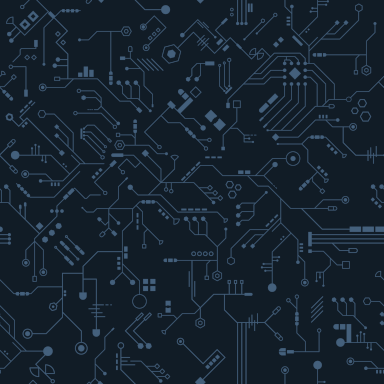
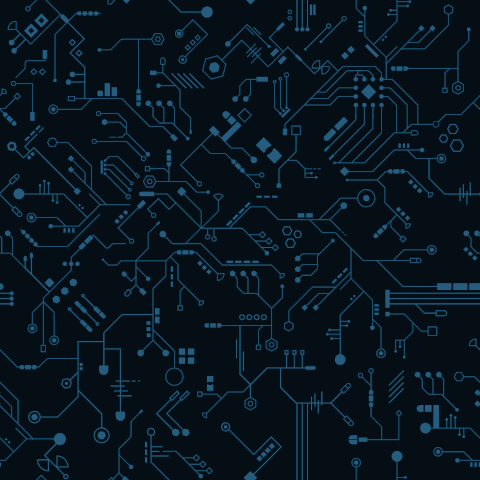
All images now use _figure.html.erb. Fullscreen layout removed. Image views removed. Page.body processed by parse_body(), which inserts inline images (as <figure>s). Keyboard thumbnail focus no longer zooms image. Dates use <time>. Darkened background colours.

diff --git a/app/assets/stylesheets/site.scss b/app/assets/stylesheets/site.scss
@@ -189,55 +189,79 @@ border-right: 1px solid $colour-edges;
 	max-width: 20em;
 	}
 	article p.date {
+    display: inline-block;
 	font-size: .8em;
 	}
-	    article p.date span {
-	    display: block;
-	    }
-    article section#child_pages {
+
+    article section.child_pages {
     // TODO: crop banner
     }
-        article section#child_pages nav {
+        article section.child_pages nav {
         display: grid;
         grid-column-gap: 1em;
         grid-template-columns: repeat(auto-fit, minmax(9em, 1fr));
         }
-            article section#child_pages nav a {
+            article section.child_pages nav a {
             display: block;
             max-width: 15em;
             margin-bottom: 3px; //focus-visible outline
             }
-                article section#child_pages nav a img {
+                article section.child_pages nav a img {
                 width: 100%;
                 //aspect-ratio: 2.33 / 1; // now inline
                 background-color: $colour-bg-alt;
                 }
-                article section#child_pages nav a p {
+                article section.child_pages nav a p {
                 // TODO: line-clamp for linked sub-pages abstract
                 margin: 0;
                 }
 
-
-        // TODO: figure out why the right hand side of the window flickers on resize up
-        // this did not happen with previous gallery layout - in place zoom caused it
         section.gallery nav {
         display: grid;
         grid-column-gap: 1em;
+        grid-row-gap: 1em;
         grid-template-columns: repeat(auto-fit, minmax(9em, 1fr));
         }
             section.gallery figure {
             }
-            section.gallery figure button {
+                section.gallery figure figcaption {
+                display: block;
+                margin-top: .5em;
+                }
+            article > figure {
+            float: left;
+            margin-top: .2em;
+            margin-right: .5em;
+            margin-bottom: .3em;
+            }
+                article > figure figcaption {
+                font-size: .8em;
+                text-align: center;
+                }
+            figure button {
             background: transparent;
             border: none;
             width: 100%;
             padding: 0;
+            border-radius: 0;
+            cursor: zoom-in;
             }
+                figure button img {
+                display: block;
+                }
                 section.gallery figure button img {
                 width: 100%;
                 }
-            section.gallery figure button + div.zoom {
-            display: none;
+                    // TODO: define image sizes in one place
+                    figure button img.lscp {
+                    width: 240px;
+                    }
+                    figure button img.port {
+                    width: auto;
+                    height: 240px;
+                    }
+            figure button + div.zoom {
+            display: none; // must be display:none to prevent loading of lazy images within
             align-items: center;
             overflow: hidden;
             width: 0;
@@ -254,17 +278,19 @@ border-right: 1px solid $colour-edges;
                     to {transform: scale(1);}
                 }
 
-                section.gallery figure button + div.zoom img {
+                figure button + div.zoom img {
                 margin: 0 auto;
                 max-height: 100%;
                 max-width: 100%;
                 animation-name: zoom;
                 animation-duration: 0.25s;
                 }
-                    section.gallery figure button:focus + div.zoom img {
+                    figure button:focus:not(:focus-visible) + div.zoom img {
                     transform: scale(1);
                     }
-            section.gallery figure button:focus + div.zoom {
+            figure button:focus:not(:focus-visible) + div.zoom {
+            // TODO: enable zooming by keypress (requires JS)
+            // also close with Esc
             position: fixed;
             display: flex;
             top: 0;
@@ -369,7 +395,7 @@ background-color: $colour-bg-alt;
     color: #C1BEB3;
     }
 
-ul.address {
+address ul {
 list-style-type: none;
 }
 

diff --git a/app/assets/stylesheets/_global.scss b/app/assets/stylesheets/_global.scss
@@ -1,7 +1,7 @@
-$colour-bg: #1F2F43;
-$colour-bg-alt: #17222D;
-$colour-body-bg: darken($colour-bg,12%);
-$colour-footer: #131920;
+$colour-bg: #091D33;
+$colour-bg-alt: #030f1B;
+$colour-body-bg: #020F17;
+$colour-footer: #01070B;
 $colour-text: #C1BEB3;
 $colour-edges: #000000;
 $orange: #DC5B00;

diff --git a/app/helpers/pages_helper.rb b/app/helpers/pages_helper.rb
@@ -1,4 +1,5 @@
 module PagesHelper
+	require "nokogiri"
 
 	def full_page_path(page)
 		path = []
@@ -12,6 +13,15 @@ module PagesHelper
 			path << page.friendly_id
 		end
 		File.join(path)
+	end
+
+	def parse_body(page)
+		# TODO: sanitize
+		body = Kramdown::Document.new(
+			inline_images(page, page.images.inline), 
+			syntax_highlighter: "rouge", 
+			syntax_highlighter_opts: {line_numbers: true, theme: "monokai"}
+		).to_html.html_safe
 	end
 
 	def css_aspect(image)
@@ -47,16 +57,6 @@ module PagesHelper
 		end
 	end
 
-	def thumbnail_image(image, size=240)
-		# TODO: implement srcset (not really needed)
-		image_tag(
-			url_for(image.image_file.variant(resize_to_fill: [size, size])),
-			alt: image.alt_text, 
-			style: "aspect-ratio: 1/1;",
-			loading: "lazy"
-		)
-	end
-
 	def first_banner_path(page, width=320, ratio=2.33)
 		if page.images.banner.any?
 			path = url_for(page.images.banner.first.image_file.variant(resize_to_fill: [width, width/ratio]))
@@ -85,6 +85,30 @@ module PagesHelper
 		style.html_safe
 	end
 
+	def thumbnail_image(image, size, aspect)
+		# TODO: implement srcset (not really needed)
+		# TODO: define image sizes somewhere...
+		aspect = aspect || image_aspect(image)
+		css_class = ""
+		if aspect[1] > aspect[0] 
+			# portrait
+			css_class = "port"
+			height = size
+			width = (size*aspect[0])/aspect[1]
+		else
+			css_class = "lscp"
+			height = (size*aspect[1])/aspect[0]
+			width = size
+		end
+		image_tag(
+			url_for(image.image_file.variant(resize_to_fill: [width, height])),
+			alt: image.alt_text, 
+			style: "aspect-ratio: #{aspect[0]}/#{aspect[1]};",
+			class: css_class,
+			loading: "lazy"
+		)
+	end
+
 	def fullscreen_image(image, size=800)
 		# TODO: investigate using <picture> instead of <img>
 		aspect = image_aspect(image)
@@ -102,22 +126,24 @@ module PagesHelper
 		)
 	end
 
-	def inline_images(page, width=480) 
-		# TODO: handle case of too few images
-		page.body % page.images.inline.map { |image| image_to_md(page, image, width) }
+	def inline_images(page, images) 
+		images = page.images.inline
+		page.body.gsub(/fig\[(\d+)\]/).each do |fig| 
+			index = $1.to_i - 1
+			unless images[index].nil?
+				image_to_figure(page, images[index])
+			end
+		end
+	end
+
+	def image_to_figure(page, image)
+		# TODO: width
+		render partial: "figure", locals: {image: image, size: 240, aspect: nil}
 	end
 
 	# TODO: most of these are image helpers, not page helpers...
-	# TODO: def gallery_images(), def banner_images()
 	# TODO: define a comprehensive set of tokens for image/gallery/banner insertion
 	# TODO: get rid of unnecessary <div> tags around kramdown/rouge code blocks
-
-	def image_to_md(page, image, width)
-		alt = image.alt_text
-		img = url_for(image.image_file.variant(resize_to_limit: [width, nil]))
-		url = page_image_path(page, image)
-		"[![#{alt}](#{img})](#{url})"
-	end
 
 	def svg_icon(icon)
 		# TODO: add role="img" to <svg> and <title>[description]</title> inside it, translating the description

diff --git a/app/controllers/pages_controller.rb b/app/controllers/pages_controller.rb
@@ -1,7 +1,7 @@
 class PagesController < ApplicationController
   require "kramdown"
   require "rouge"
-  before_action :set_page, only: %i[ show]
+  before_action :set_page, only: %i[show]
 
   def index
     @page = Page.for_url("/").first
@@ -27,5 +27,9 @@ class PagesController < ApplicationController
   private
     def set_page
       @page = Page.friendly.find(params[:id], allow_nil: true) || Page.for_url("/#{params[:id]}").first
+    end
+
+    def authorize 
+
     end
 end
